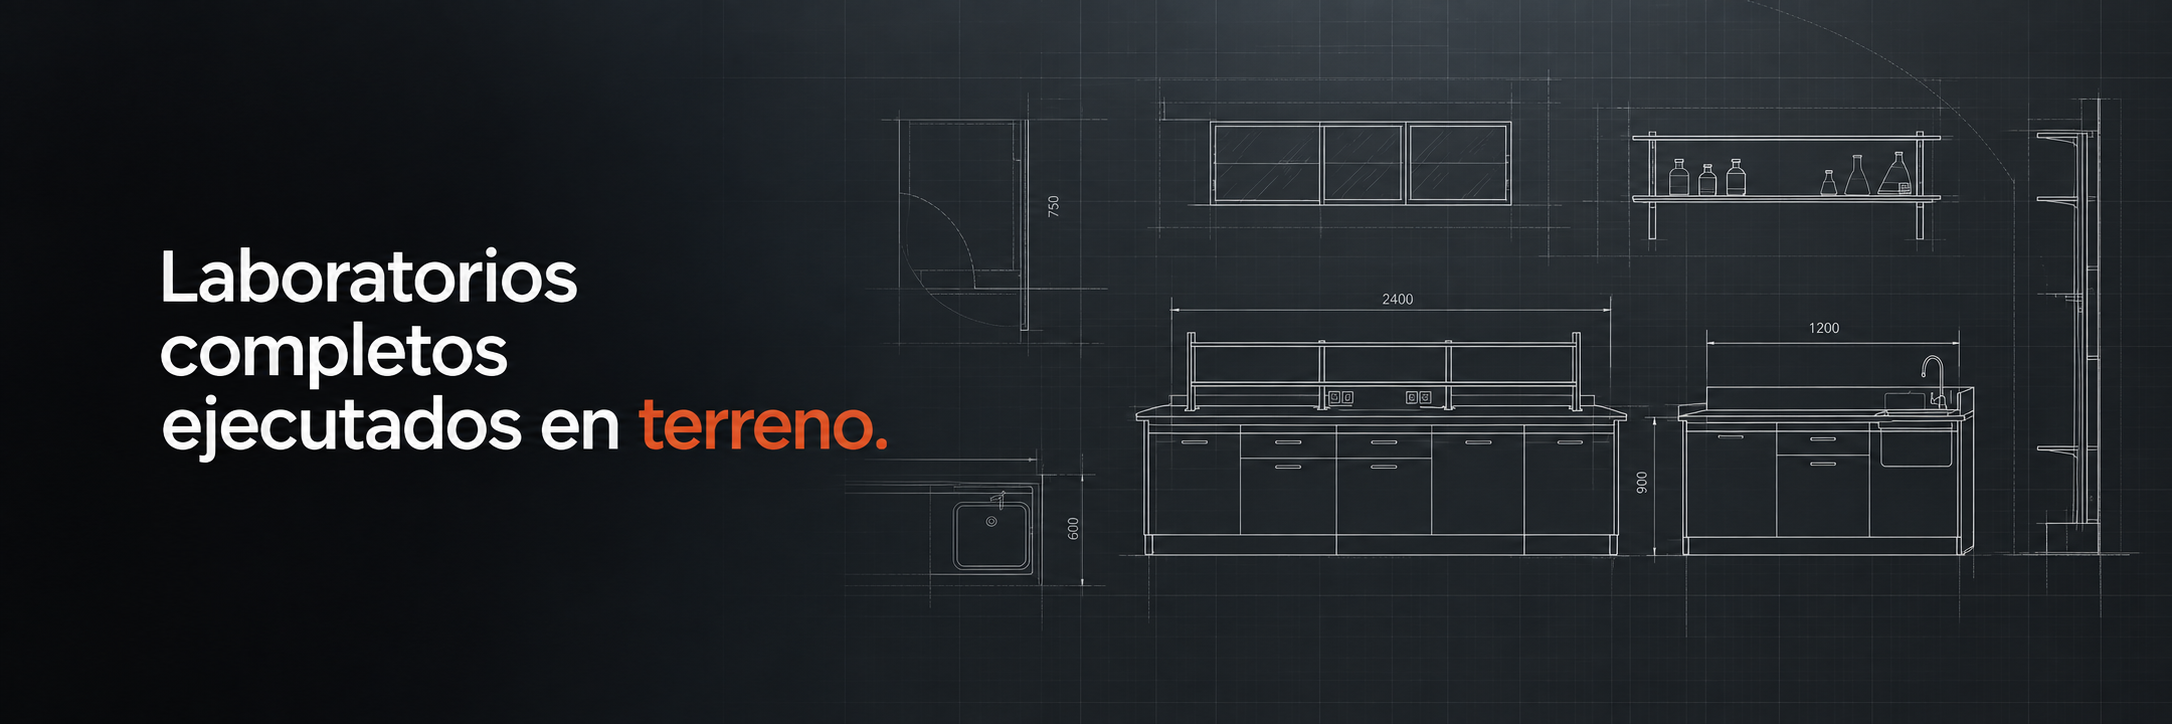
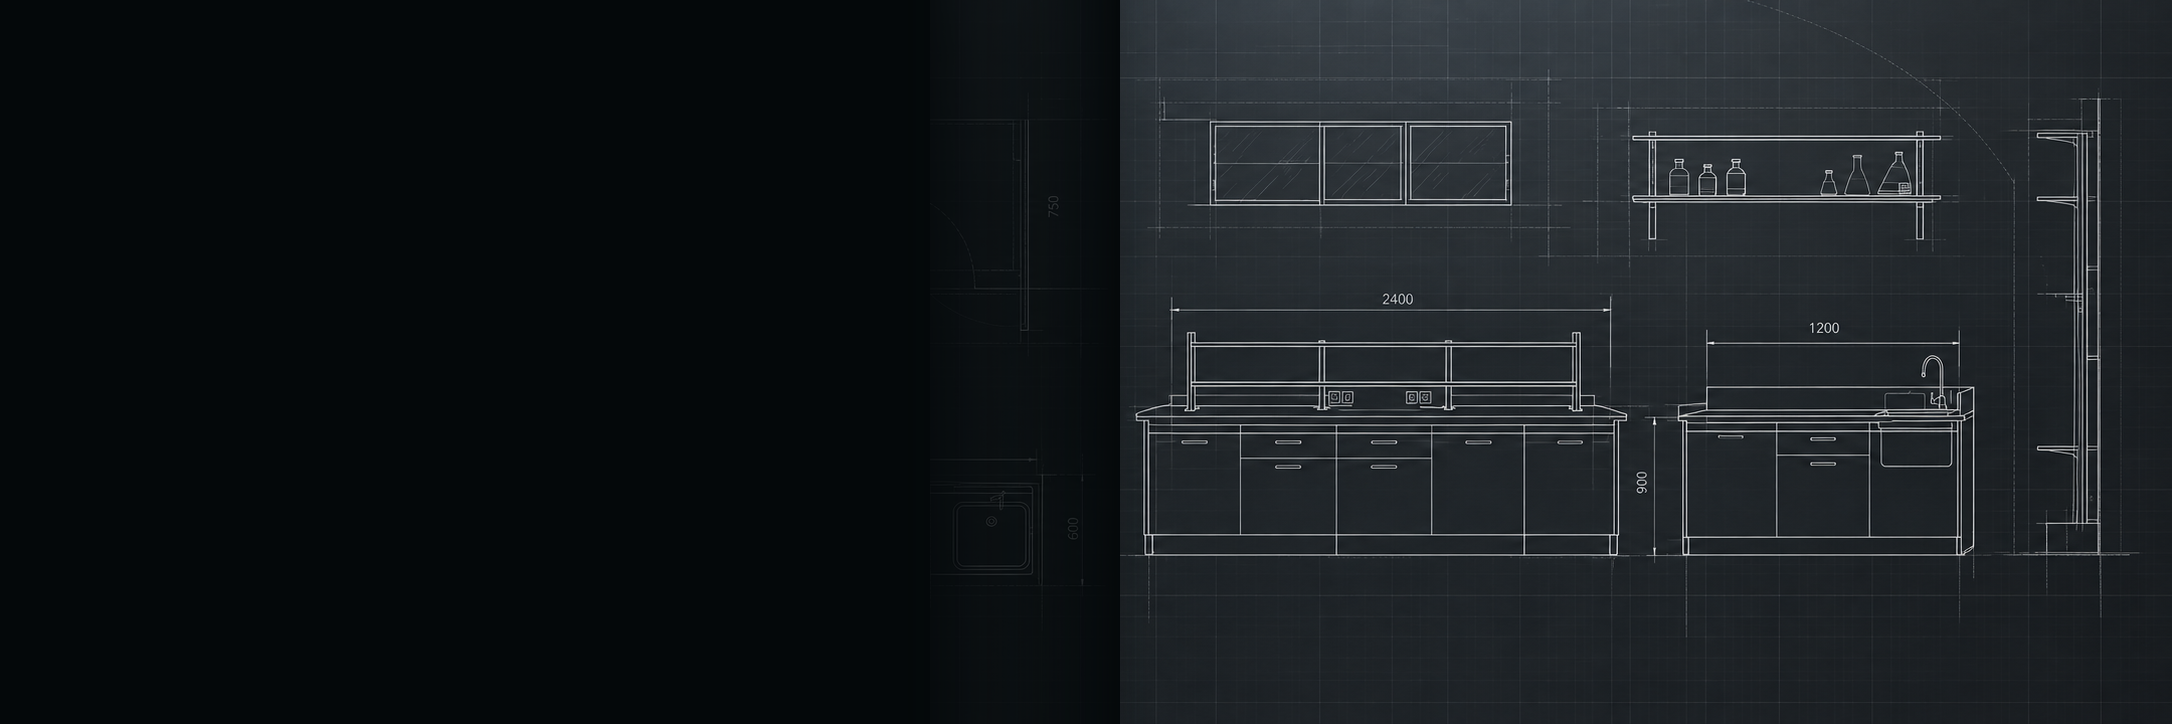
fix: intensifica parallax del plano de proyectos

Changed region(s): [[0.0617, 0.0, 0.5244, 1.0], [0.0617, 0.3343, 0.2776, 0.4254]]

diff --git a/src/components/sections/team-highlight-banner.tsx b/src/components/sections/team-highlight-banner.tsx
@@ -11,7 +11,7 @@ export function TeamHighlightBanner() {
     target: sectionRef,
     offset: ["start 0.8", "end 0.2"],
   });
-  const blueprintY = useTransform(scrollYProgress, [0, 1], ["-14%", "14%"]);
+  const blueprintY = useTransform(scrollYProgress, [0, 1], ["-24%", "24%"]);
 
   return (
     <section
@@ -33,7 +33,7 @@ export function TeamHighlightBanner() {
           />
         </motion.div>
 
-        <div className="pointer-events-none absolute inset-0 bg-gradient-to-r from-black from-0% via-black via-[53%] to-transparent to-[69%] sm:via-[52%] sm:to-[67%] lg:via-[53%] lg:to-[68%]" />
+        <div className="pointer-events-none absolute inset-0 bg-gradient-to-r from-black/90 from-0% via-black/55 via-[15%] to-transparent to-[38%] sm:via-black/45 sm:via-[13%] sm:to-[33%] lg:via-black/35 lg:via-[12%] lg:to-[30%]" />
 
         <div className="relative z-10 mx-auto flex h-full w-full max-w-[1240px] items-center px-6 md:px-10 lg:px-8">
           <div className="max-w-[410px] text-white">

diff --git a/DESIGN.md b/DESIGN.md
@@ -393,6 +393,6 @@ El cliente marcó con una captura (flechas y recuadro rojo) que la banda final (
 Por aclaración directa del cliente, `TeamHighlightBanner` es la única excepción del home a la regla general que limita el parallax. El movimiento pertenece exclusivamente al plano técnico: la sección completa sigue el flujo normal de la página y nunca se fija al viewport.
 
 - **Banda en flujo normal:** el bloque visible mide entre 360 y 400 px según el viewport, con 380 px desde `lg`. No existe altura auxiliar, recorrido vacío, `position: sticky` ni compensación bajo la navegación.
-- **Encuadre y legibilidad:** desde `sm`, el fondo usa el plano atmosférico entregado por el cliente, con `object-fit: contain` y anclaje derecho dentro de un lienzo vertical de 140 %, para conservar las cotas, la retícula y el mobiliario completos. En móvil conserva `object-fit: cover`. Como el asset de referencia trae un título integrado, la oscuridad nativa se prolonga con un degradado negro continuo que lo oculta bajo el título HTML, sin corte vertical visible.
-- **Movimiento interno ligado al scroll:** mientras la propia banda atraviesa el viewport, el progreso controla exclusivamente el `translateY` de la imagen, desde arriba hacia abajo, con recorrido perceptible de -14 % a 14 %. El contenedor, el texto y el degradado no se transforman. No existe paneo horizontal, zoom, loops, springs, rebotes ni animaciones temporizadas autónomas.
+- **Encuadre y legibilidad:** desde `sm`, el fondo usa el plano atmosférico entregado por el cliente, con `object-fit: contain` y anclaje derecho dentro de un lienzo vertical de 140 %, para conservar las cotas, la retícula y el mobiliario completos. En móvil conserva `object-fit: cover`. El asset de referencia se limpió de su título integrado para mantener solo el título HTML. La máscara de lectura queda concentrada a la izquierda y se desvanece antes de los planos, sin corte vertical visible.
+- **Movimiento interno ligado al scroll:** mientras la propia banda atraviesa el viewport, el progreso controla exclusivamente el `translateY` de la imagen, desde arriba hacia abajo, con recorrido intenso de -24 % a 24 %. El contenedor, el texto y el degradado no se transforman. No existe paneo horizontal, zoom, loops, springs, rebotes ni animaciones temporizadas autónomas.
 - **Movimiento reducido:** `prefers-reduced-motion` deja la imagen estática sin alterar la altura ni el flujo de la sección.

diff --git a/.agent-log/sessions.md b/.agent-log/sessions.md
@@ -5841,3 +5841,10 @@ animation-iteration-count: 1 !important; ... } }`) cubre cualquier animación CS
 - La captura del cliente evidenció que el nuevo asset contenía un título rasterizado y el componente dibujaba el mismo título como HTML, generando dos capas superpuestas.
 - Se ajustó exclusivamente la máscara de lectura para mantener opaco el tramo que contiene el texto incorporado en la imagen y desvanecerlo de forma continua hacia el plano. El título HTML queda como única capa legible; no se alteraron tamaño, texto ni desplazamiento del blueprint.
 - Validaciones: npx.cmd tsc --noEmit OK; npm.cmd run build OK con clave pública de prueba de Turnstile. Persisten solo los avisos existentes de MODULE_TYPELESS_PACKAGE_JSON y Upstash sin configurar.
+
+## 2026-09-22 — Plano limpio y scroll intensificado en Proyectos
+
+- El usuario pidió mayor recorrido de scroll y que el sombreado retrocediera hacia la izquierda. La causa de la restricción anterior era el título rasterizado dentro del asset de referencia.
+- Se regeneró el asset local sin ese texto incrustado, conservando fondo, retícula, cotas y mobiliario. La máscara HTML ahora termina entre el 30 % y 38 % del ancho según breakpoint, de modo que el plano aparece antes.
+- El único movimiento del blueprint se aumentó de ±14 % a ±24 % sin modificar la altura de la banda ni introducir zoom, paneo horizontal o movimiento temporal.
+- Validaciones: npx.cmd tsc --noEmit OK; npm.cmd run build OK con clave pública de prueba de Turnstile. Persisten solo los avisos existentes de MODULE_TYPELESS_PACKAGE_JSON y Upstash sin configurar.
